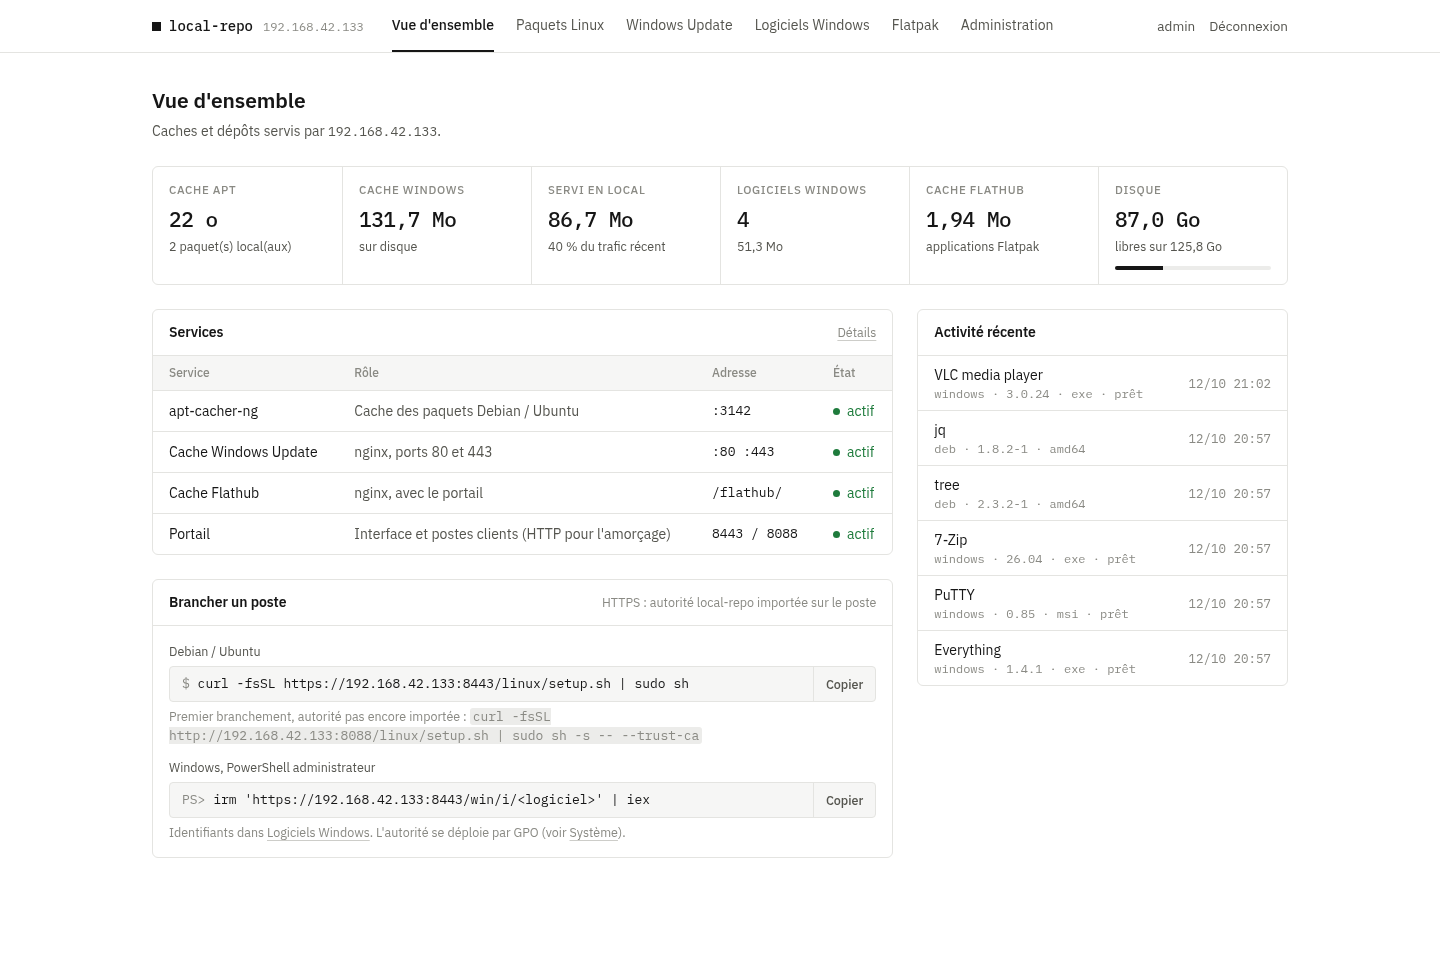
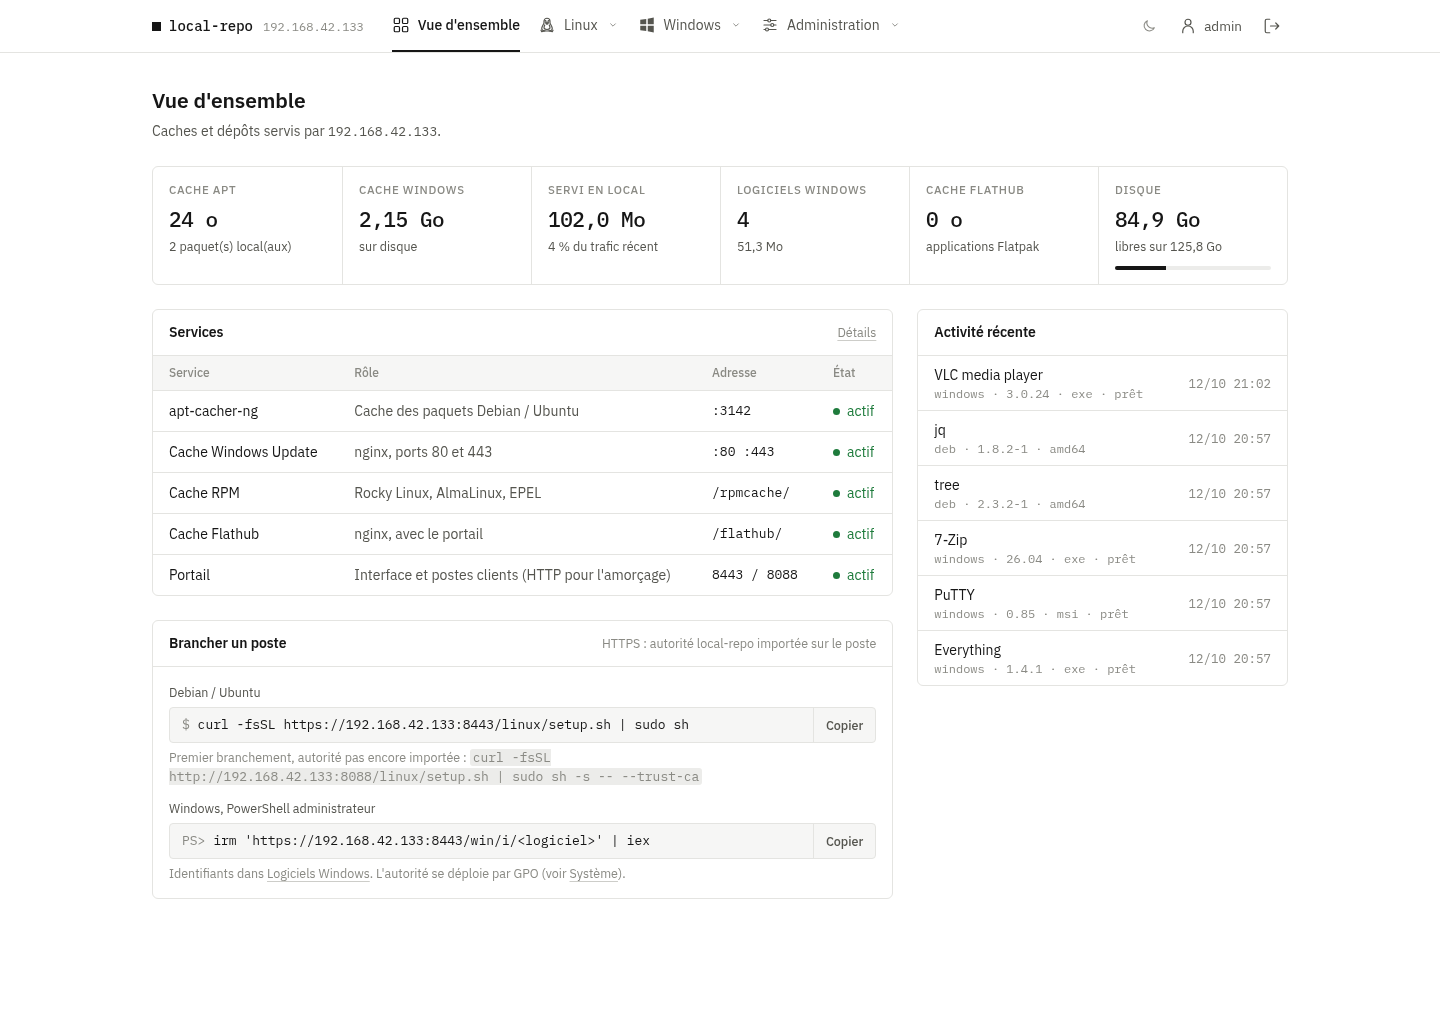
Captures d'écran à jour (1.5.0) [skip ci]
Nouvelle navigation, icône de thème, OLED et clair ; la page Windows Update
remplace Flatpak, vide sur le serveur de démonstration.

diff --git a/README.md b/README.md
@@ -17,7 +17,7 @@ Serveur de dépôts et de caches pour un réseau d'entreprise, installé en une 
 | | |
 |---|---|
 | ![Vue d'ensemble, thème OLED](docs/dashboard-oled.png) | ![Vue d'ensemble, thème clair](docs/dashboard-light.png) |
-| ![Catalogue de logiciels Windows](docs/apps.png) | ![Flatpak](docs/flatpak.png) |
+| ![Catalogue de logiciels Windows](docs/apps.png) | ![Cache Windows Update](docs/windows-update.png) |
 
 ## Installation
 
